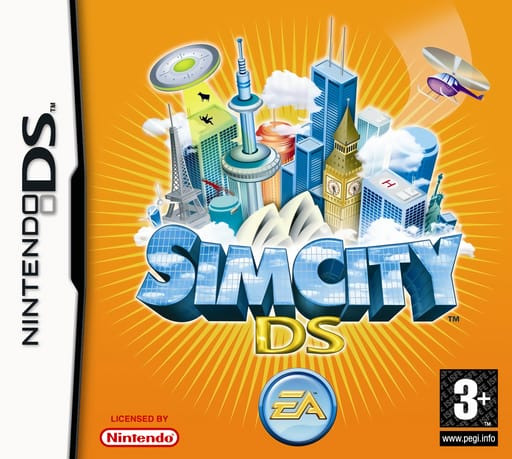
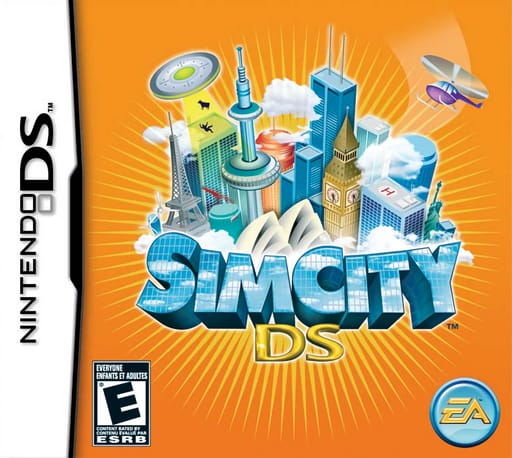
Record the region on each copy and add the 3DS games from the USA
- Regions are the code on the box where known (AUS, EUR, HOL, USA, JPN),
  from the GBC, GBA, DS and 3DS notes; the American SNES games are USA.
  The rest stay PAL. The region filter groups them by PAL, NTSC-U and
  NTSC-J, and a search for a country finds its copies
- Seven 3DS games from the USA, three of them second copies of games also
  owned in their Australian version
- Lego Rock Band 2 is the USA copy of LEGO Rock Band
- USA copies show their American box: new scans for four GBA games,
  SimCity DS and the new 3DS games
- SimCity DS first came out in 2006, in Japan
- fetch-covers.mjs --recheck swaps a cover for a better match after a
  region changes

diff --git a/js/app.js b/js/app.js
@@ -61,11 +61,13 @@
   const byId = new Map();
 
   /* ---------- filtering ---------- */
+  // the region filter groups the copies by what they play on: PAL, NTSC-U or NTSC-J
+  const stdOf = g => REGIONS[g.region]?.std || g.region;
   const fold = s => String(s || '').normalize('NFD').replace(/\p{M}/gu, '').toLowerCase();
   function base() {
     const words = fold(state.q).split(/\s+/).filter(Boolean);
     return ALL.filter(g =>
-      (!state.region || g.region === state.region) &&
+      (!state.region || stdOf(g) === state.region) &&
       (!state.covers || (state.covers === 'with') === !!g.cover) &&
       (!words.length || words.every(w => g._hay.includes(w))));
   }
@@ -75,7 +77,7 @@
   function shell() {
     const consoles = CONSOLES.filter(c => !c.hidden && ALL.some(g => g.console === c.id));
     const years = ALL.map(g => g.released).filter(Boolean).map(r => +r.slice(0, 4));
-    const regions = Object.keys(REGIONS).filter(r => ALL.some(g => g.region === r));
+    const regions = ['PAL', 'NTSC-U', 'NTSC-J'].filter(r => ALL.some(g => stdOf(g) === r));
     $('#shell').innerHTML = `
       <header class="hero">
         <div>
@@ -170,7 +172,7 @@
       f.classList.toggle('on', ids.length === state.sel.size && ids.every(i => state.sel.has(i)));
     });
     $$('[data-r]').forEach(x => x.classList.toggle('on', x.dataset.r === state.region));
-    $$('[data-rn]').forEach(x => x.textContent = ALL.filter(g => g.region === x.dataset.rn).length);
+    $$('[data-rn]').forEach(x => x.textContent = ALL.filter(g => stdOf(g) === x.dataset.rn).length);
     $$('#view button').forEach(x => x.classList.toggle('on', x.dataset.view === state.view));
     $$('#mode button').forEach(x => x.classList.toggle('on', x.dataset.m === state.mode));
     $('#modeWrap').hidden = state.view !== 'shelf';
@@ -961,7 +963,7 @@
       ALL = db.games;
       ALL.forEach(g => {
         byId.set(g.id, g);
-        g._hay = fold([g.title, g.listedAs, g.publisher, g.developer, g.genre, g.released, g.region, CONSOLE_BY_ID[g.console].name, CONSOLE_BY_ID[g.console].short, g.note, g.edition].join(' | '));
+        g._hay = fold([g.title, g.listedAs, g.publisher, g.developer, g.genre, g.released, g.region, REGIONS[g.region]?.std !== g.region && REGIONS[g.region]?.long, CONSOLE_BY_ID[g.console].name, CONSOLE_BY_ID[g.console].short, g.note, g.edition].join(' | '));
       });
       shell();
       const h = location.hash.slice(1);

diff --git a/js/consoles.js b/js/consoles.js
@@ -52,10 +52,18 @@ window.LAUNCHERS = {
   none:      { name: 'DRM-free disc',   bg: '#3a3a3a', fg: '#ffffff', glyph: '◌' },
 };
 
+/* Where a copy was sold: the code printed on the box (AUS, EUR, HOL, USA, JPN) when it is
+   known, else just the standard it plays on. std groups them for the filter: a PAL copy wants
+   a PAL console, and a 3DS only plays games from its own region. */
 window.REGIONS = {
-  'PAL':    { name: 'PAL',    long: 'PAL — Europe & Australia' },
-  'NTSC-U': { name: 'NTSC-U', long: 'NTSC-U — Americas' },
-  'NTSC-J': { name: 'NTSC-J', long: 'NTSC-J — Japan' },
+  'AUS':    { name: 'AUS',    long: 'Australia',                 std: 'PAL' },
+  'EUR':    { name: 'EUR',    long: 'Europe',                    std: 'PAL' },
+  'HOL':    { name: 'HOL',    long: 'Netherlands',               std: 'PAL' },
+  'PAL':    { name: 'PAL',    long: 'PAL — Europe or Australia', std: 'PAL' },
+  'USA':    { name: 'USA',    long: 'United States',             std: 'NTSC-U' },
+  'NTSC-U': { name: 'NTSC-U', long: 'NTSC-U — the Americas',     std: 'NTSC-U' },
+  'JPN':    { name: 'JPN',    long: 'Japan',                     std: 'NTSC-J' },
+  'NTSC-J': { name: 'NTSC-J', long: 'NTSC-J — Japan',            std: 'NTSC-J' },
 };
 
 window.FORMATS = {

diff --git a/js/cases.js b/js/cases.js
@@ -182,7 +182,7 @@
     const T = CART[type];
     const [x, y, lw, lh] = T.label;
     // Japanese box art has no name strip down the side
-    const [cl, cr] = T.crop && g.region !== 'NTSC-J' ? T.crop : [0, 0], keep = 1 - cl - cr;
+    const [cl, cr] = T.crop && window.REGIONS[g.region]?.std !== 'NTSC-J' ? T.crop : [0, 0], keep = 1 - cl - cr;
     return `<div class="cart c-${type} k-${styleOf(g)}" style="--cw:${px(T.w * s)};--ch:${px(T.h * s)}">
       <svg viewBox="0 0 ${T.w} ${T.h}" preserveAspectRatio="none" aria-hidden="true">${T.body()}</svg>
       <div class="clab" style="left:${pct(x, T.w)};top:${pct(y, T.h)};width:${pct(lw, T.w)};height:${pct(lh, T.h)};--lp:${T.pos};--liw:${pct(1, keep)};--lix:${pct(-cl, keep)}">${g.cover ? img(g) : `<span>${esc(g.title)}</span>`}</div>

diff --git a/README.md b/README.md
@@ -30,7 +30,7 @@ One entry per copy on the shelf:
 | `title` | `"Final Fantasy X"` | the official title |
 | `listedAs` | `"Nárnia"` | how it was written on the original list, when different |
 | `edition` | `"Nintendo Switch 2 Edition"` | optional |
-| `region` | `"PAL"` | `PAL`, `NTSC-U` or `NTSC-J` |
+| `region` | `"AUS"` | the region code on the box: `AUS`, `EUR`, `HOL` (Netherlands), `USA` or `JPN`. When it isn't known, just `PAL`, `NTSC-U` or `NTSC-J`. The region filter groups them by PAL, NTSC-U and NTSC-J |
 | `released` | `"2001-07-19"` | first release on that console. Can be `"2001-07"` or `"2001"` |
 | `dateSource` | `"manual"` | `libretro-database`, or `manual` (from memory, worth checking) |
 | `publisher`, `developer`, `genre` | | |
@@ -61,6 +61,7 @@ cd tools && npm install
 node fetch-covers.mjs --dry      # show what it would match
 node fetch-covers.mjs            # download
 node fetch-covers.mjs --only ps2-the-sims   # redo one game
+node fetch-covers.mjs --recheck  # after changing regions: swap in the right region's box
 ```
 
 It uses free community collections on GitHub, region by region, and needs no keys:
